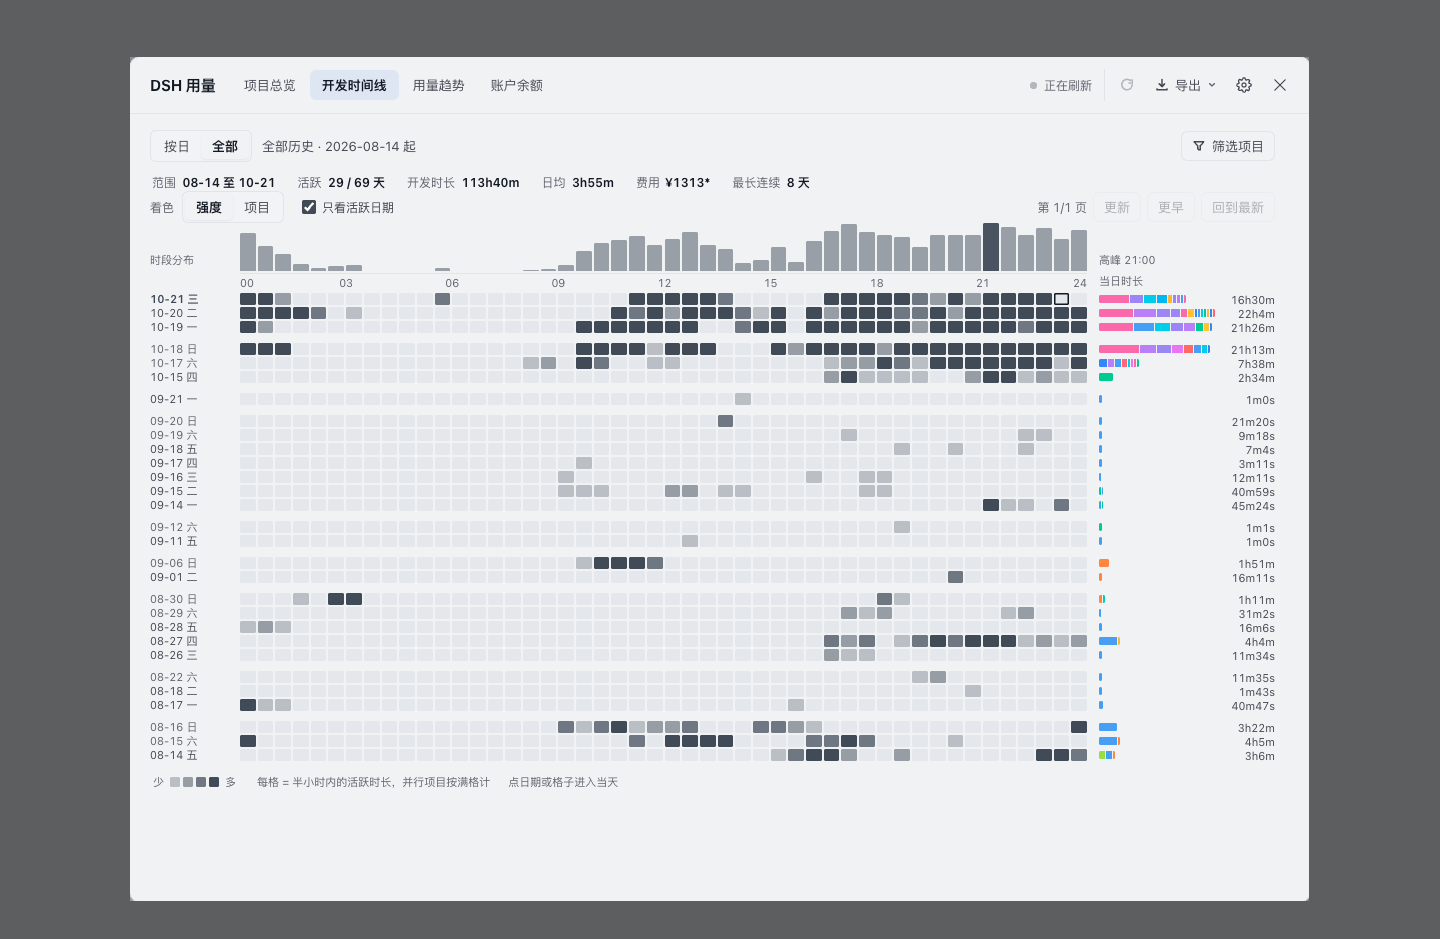
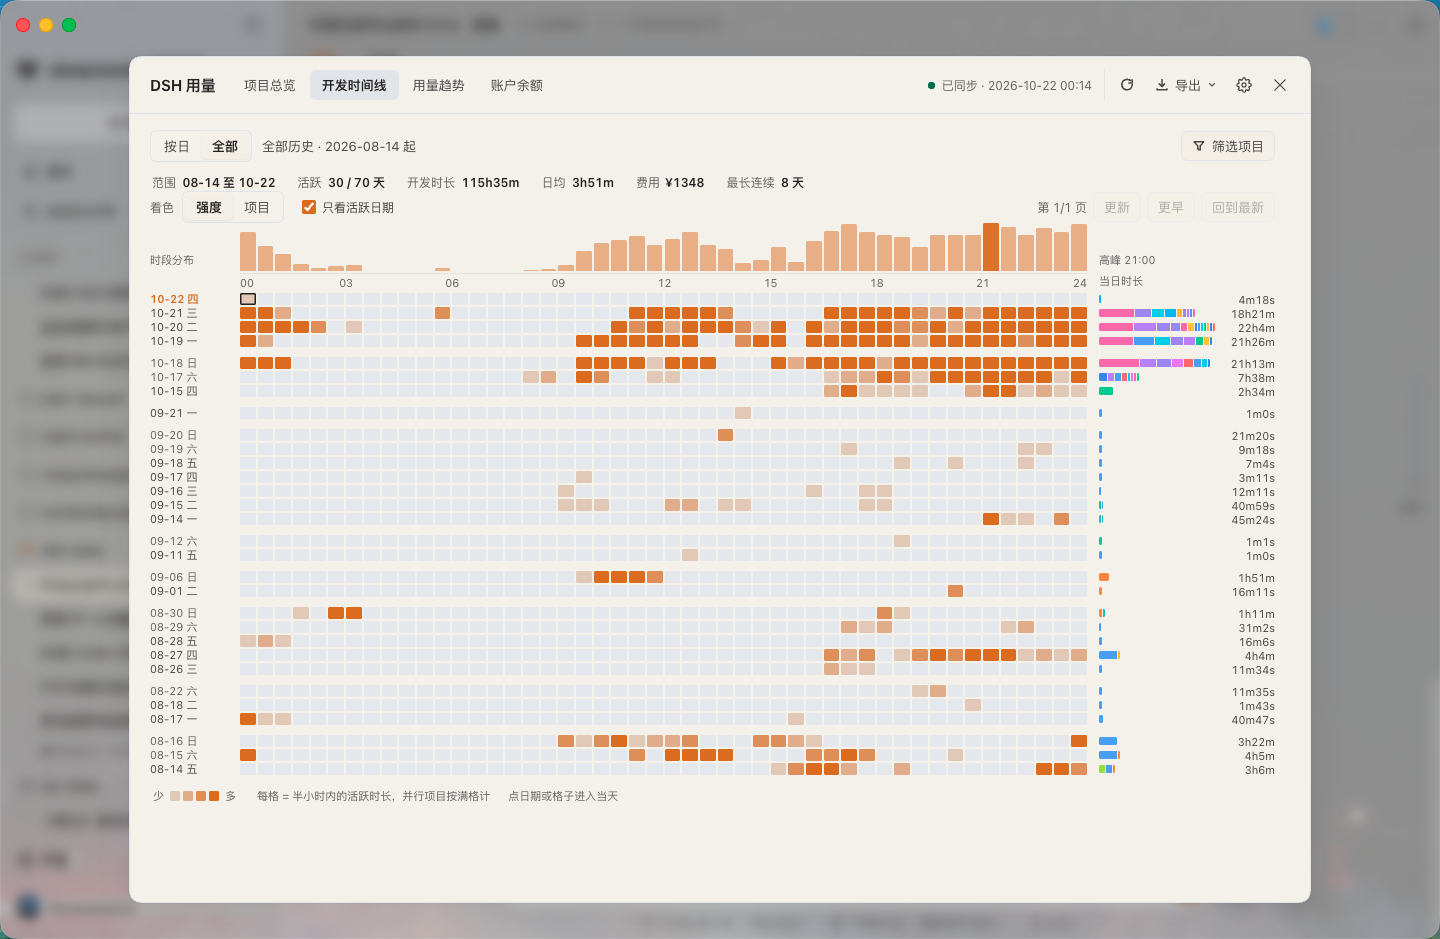
docs(readme): recapture the all-days timeline with priced data
The previous bitmap was captured while the catalog was still pinned to an older
snapshot, so most heat cells rendered unpriced (grey). The new capture uses the
current catalog, shows the settled synced state, and keeps the same masked set
(the calendar carries no project names).

diff --git a/README.en.md b/README.en.md
@@ -82,7 +82,7 @@ The day view arranges projects as lanes above half-hour cost or token bars; clic
   <a href="https://github.com/rongyishuaige7/dsh-stats/blob/main/docs/images/timeline.png"><img src="https://raw.githubusercontent.com/rongyishuaige7/dsh-stats/main/docs/images/timeline.png?v=2" alt="Timeline day view (real data, sensitive values masked)" width="100%"></a>
 </p>
 <p align="center">
-  <a href="https://github.com/rongyishuaige7/dsh-stats/blob/main/docs/images/timeline-all.png"><img src="https://raw.githubusercontent.com/rongyishuaige7/dsh-stats/main/docs/images/timeline-all.png?v=2" alt="Timeline all view as a calendar matrix (real data, sensitive values masked)" width="100%"></a>
+  <a href="https://github.com/rongyishuaige7/dsh-stats/blob/main/docs/images/timeline-all.png"><img src="https://raw.githubusercontent.com/rongyishuaige7/dsh-stats/main/docs/images/timeline-all.png?v=3" alt="Timeline all view as a calendar matrix (real data, sensitive values masked)" width="100%"></a>
 </p>
 
 ### Usage trends
